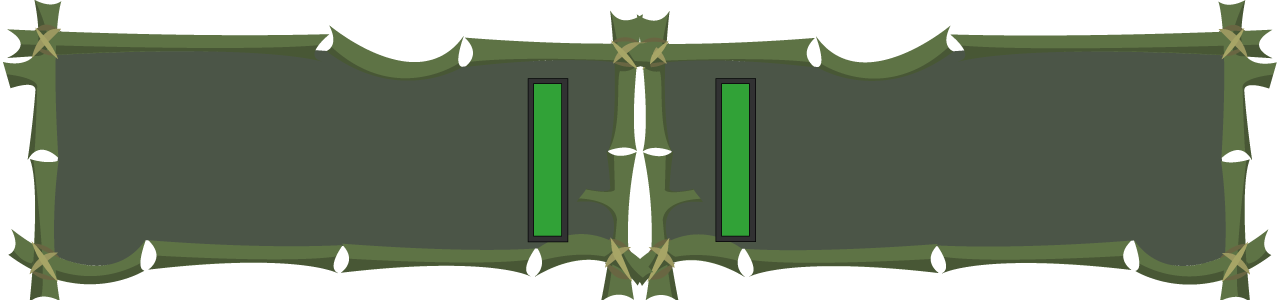
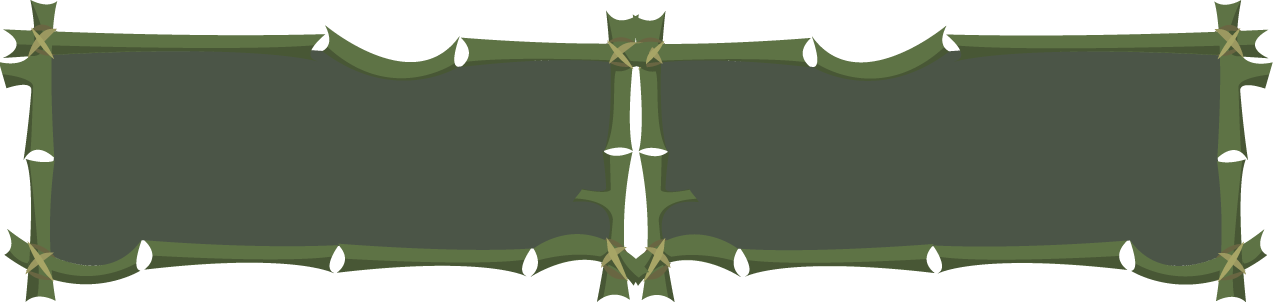
enlce

diff --git a/src/scenes/mainmenu.js b/src/scenes/mainmenu.js
@@ -24,20 +24,79 @@ export class MainMenu extends Phaser.Scene {
       this.cameras.main.centerY / 1.5,
       "phaser_logo"
     );*/
-    this.add.image(this.cameras.main.centerX, this.cameras.main.centerY, "mainMenu")
-    .setScale(1);
+    let backMenu = this.add.image(this.cameras.main.centerX, this.cameras.main.centerY, "mainMenu")
+    .setScale(.67);
 
     // Boton para comenzar a jugar
-        const botonJgar = new Button(this.cameras.main.centerX + 100, this.cameras.main.centerY- 160, 'Comenzar', this, () => {
+    let botonJgar = this.add.image(750, 195, 'botonM')
+    .setScale(.67);
+        let botonJgarM = this.add.text(656, 152, 'JUGAR')
+        .setStyle({
+            fontFamily: "asian",
+            fontSize: '100px',
+            fill: '#7D8E69'
+        })
+        .setInteractive()
+        .on(Phaser.Input.Events.GAMEOBJECT_POINTER_DOWN,() => {
+          this.scene.start("SelecFacc")
+        })
+        .on('pointerover', () => botonJgarM.setStyle({ fill: '#323D26' }))
+        .on('pointerout', () => botonJgarM.setStyle({ fill: '#7D8E69' }));
+
+
+        //boton Ayuda
+        let botonAyda = this.add.image(756, 348, 'botonM')
+    .setScale(.54);
+        let botonAydaM = this.add.text(680, 315, 'AYUDA')
+        .setStyle({
+            fontFamily: "asian",
+            fontSize: '80px',
+            fill: '#7D8E69'
+        })
+        .setInteractive()
+        .on(Phaser.Input.Events.GAMEOBJECT_POINTER_DOWN,() => {
+          this.scene.start("Ayuda")
+        })
+        .on('pointerover', () => botonAydaM.setStyle({ fill: '#323D26' }))
+        .on('pointerout', () => botonAydaM.setStyle({ fill: '#7D8E69' }));
+        
+        
+        //boton Creditos
+        let botonCre = this.add.image(760, 478, 'botonM')
+    .setScale(.43);
+        let botonCreM = this.add.text(676, 452, 'CREDITOS')
+        .setStyle({
+            fontFamily: "asian",
+            fontSize: '68px',
+            fill: '#7D8E69'
+        })
+        .setInteractive()
+        .on(Phaser.Input.Events.GAMEOBJECT_POINTER_DOWN,() => {
+          this.scene.start("Creditos")
+        })
+        .on('pointerover', () => botonCreM.setStyle({ fill: '#323D26' }))
+        .on('pointerout', () => botonCreM.setStyle({ fill: '#7D8E69' }));
+        
+        //Configuracion
+        let opciones = this.add.image(1230, 50,'confiM')
+        .setScale(.55)
+        .setInteractive()
+        .on(Phaser.Input.Events.GAMEOBJECT_POINTER_DOWN,() => {
+          opciones.setTint(0x728C55)
+          this.scene.start("Opciones");
+        })
+        .on('pointerover', () => opciones.setTint(0x728C55))
+        .on('pointerout', () => opciones.setTint(0xDBE5D0));
+        /*const botonJgar = new Button(this.cameras.main.centerX + 100, this.cameras.main.centerY- 160, 'JUGAR', this, () => {
             // Instrucción para pasar a la escena Play
             this.scene.start("SelecPer");
         });
 
         // Boton para comenzar a jugar
-        const botonCred = new Button(this.cameras.main.centerX + 100, this.cameras.main.centerY -70, 'Creditos', this, () => {
+        const botonCred = new Button(this.cameras.main.centerX + 100, this.cameras.main.centerY -70, 'AYUDA', this, () => {
           // Instrucción para pasar a la escena Play
-          this.scene.start("Credits");
-      });
+          this.scene.start("Ayuda");
+      });*/
 
       /*// Boton para comenzar a jugar
       const botonSlir = new Button(this.cameras.main.centerX, this.cameras.main.centerY + this.cameras.main.centerY/3, 'Salir', this, () => {
@@ -45,11 +104,11 @@ export class MainMenu extends Phaser.Scene {
         this.scene.start("");
     });*/
 
-    // Boton para comenzar a jugar
-    const boton = new Button(this.cameras.main.centerX + 100, this.cameras.main.centerY+20, 'Opciones', this, () => {
+    /*/ Boton para comenzar a jugar
+    const boton = new Button(this.cameras.main.centerX + 100, this.cameras.main.centerY+20, 'CREDITOS', this, () => {
       // Instrucción para pasar a la escena Play
-      this.scene.start("Opciones");
-  });
+      this.scene.start("Creditos");
+  });*/
   }
   update(){
     

diff --git a/src/scenes/selecFaccion.js b/src/scenes/selecFaccion.js
@@ -1,0 +1,95 @@
+
+export class SelecFacc extends Phaser.Scene {
+    constructor() {
+      // Se asigna una key para despues poder llamar a la escena
+      super("SelecFacc");
+    }
+  
+    
+    /*preload() {
+      this.load.image("phaser_logo", "public/assets/images/phaser_logo.png");
+      this.load.image(
+        "mainmenu_bg",
+        "public/assets/images/main_menu_background.png"
+      );
+    }*/
+    
+    create() {
+
+
+      this.add.image(this.cameras.main.centerX, this.cameras.main.centerY, "elegirFacc");
+
+      let volverM = this.add.image(70, 60, 'volverM')
+        .setScale(.7)
+        .setInteractive()
+        .on(Phaser.Input.Events.GAMEOBJECT_POINTER_DOWN,() => {
+          this.scene.start("MainMenu")
+        })
+        .on('pointerover', () => volverM.setTint(0x728C55))
+        .on('pointerout', () => volverM.setTint(0xDBE5D0));
+
+
+        //listo j1 y j2
+        let listoJ1 = this.add.image(370, 660, 'boton')
+        .setScale(.16)
+        .setInteractive()
+        .on(Phaser.Input.Events.GAMEOBJECT_POINTER_DOWN,() => {
+        })
+        .on('pointerover', () => listoJ1.setTint(0x728C55))
+        .on('pointerout', () => listoJ1.setTint(0xDBE5D0));;;
+        
+        let listoJ01 = this.add.text(330, 638, 'LISTO')
+        .setStyle({
+            fontFamily: "asian",
+            fontSize: '56px',
+            fill: '#7D8E69'
+        })
+        .setInteractive()
+        .on(Phaser.Input.Events.GAMEOBJECT_POINTER_DOWN,() => {
+          this.listo1 = true;
+        })
+        .on('pointerover', () => listoJ01.setTint(0x728C55))
+        .on('pointerout', () => listoJ01.setTint(0xDBE5D0))
+        let listo1 = false;
+
+
+        let listoJ2 = this.add.image(980, 660, 'boton')
+        .setScale(.16)
+        .setInteractive()
+        .on(Phaser.Input.Events.GAMEOBJECT_POINTER_DOWN,() => {
+        })
+        .on('pointerover', () => listoJ2.setTint(0x728C55))
+        .on('pointerout', () => listoJ2.setTint(0xDBE5D0));;
+        let listoJ02 = this.add.text(944, 638, 'LISTO')
+        .setStyle({
+            fontFamily: "asian",
+            fontSize: '56px',
+            fill: '#7D8E69'
+        })
+        .setInteractive()
+        .on(Phaser.Input.Events.GAMEOBJECT_POINTER_DOWN,() => {
+          this.listo2 = true;
+        })
+        .on('pointerover', () => listoJ02.setTint(0x728C55))
+        .on('pointerout', () => listoJ02.setTint(0xDBE5D0))
+        let listo2 = false;
+
+        
+
+
+       //Boton para comenzar a jugar al combate
+      /*const botonPlayC = new Button(this.cameras.main.centerX, this.cameras.main.centerY + this.cameras.main.centerY/2, 'Empezar', this, () => {
+        // Instrucción para pasar a la escena PlayCombat
+        this.scene.start("selecSamurai");
+        
+    });*/
+  }
+
+  update(){
+    
+    
+    if (this.listo1 && this.listo2 === true){
+      this.scene.start("SelecPer")
+    }
+  }
+}

diff --git a/src/scenes/preloads.js b/src/scenes/preloads.js
@@ -15,14 +15,18 @@ export class Preloads extends Phaser.Scene {
       "mainmenu_bg",
       "public/assets/images/main_menu_background.png"
     );
-    this.load.image("mainMenu", "public/assets/images/menu.png");
-    this.load.image("credits", "public/assets/images/creditos.png");
-    this.load.image("selecPersonajes", "public/assets/images/seleccion_personajes.png");
+    this.load.image("mainMenu", "public/assets/images/menu1.png");
+    this.load.image("creditos", "public/assets/images/creditos.png");
+    this.load.image("selecPersonajes", "public/assets/images/selecPer.png");
     this.load.image("opciones", "public/assets/images/opciones.png");
     this.load.image("samuraisSelec", "public/assets/images/seleccion_luchadores.png");
     this.load.image("vikingSelec", "public/assets/images/seleccion-vikinga.png");
     this.load.image("combatZoomOut", "public/assets/images/comZoomOut.png");  
     this.load.image("combatZoom", "public/assets/images/combatZoom.png");
+
+    this.load.image("ayuda01", "public/assets/images/ayuda01.png")
+
+    this.load.image("elegirFacc", "public/assets/images/elegirFacc.png")
 
     //personajes
     this.load.image("sCaballo", "public/assets/images/personajes/caballo.png");
@@ -34,7 +38,12 @@ export class Preloads extends Phaser.Scene {
     this.load.image("interface", "public/assets/images/escenario_central.png");
 
     //botones
-    //this.load.image("botonV", "public/assets/images/bottonV.png")
+    this.load.image("boton", "public/assets/images/bottonV.png")
+    this.load.image('botonM', "public/assets/images/botonTrans.png")
+    this.load.image('confiM', "public/assets/images/opcionesM.png")
+    this.load.image('volverM', "public/assets/images/volverM.png")
+    this.load.image("botonV", "public/assets/images/interfaz.png");
+
 
     //amnimaciones
     this.load.spritesheet('peon', "public/assets/images/peon.png", {
@@ -42,10 +51,17 @@ export class Preloads extends Phaser.Scene {
       frameHeight: 1080,
     });
 
+    //PERSONAJE SAMURAIS
+    this.load.image("sPerS01", "public/assets/images/selecPerS01.png")
+    this.load.image("zoomPerS01", "public/assets/images/zoomPerS01.png")
+    //PERSONAJE VIKINGOS
+    this.load.image("sPerV02", "public/assets/images/selecPerV02.png")
+    
+
   }
 
   create() {
     // Pasa directamente a la escena del menú principal
-    this.scene.start("PlayZoom");
+    this.scene.start("MainMenu");
   }
 }

diff --git a/src/scenes/SelecPer.js b/src/scenes/SelecPer.js
@@ -17,12 +17,40 @@ export class SelecPer extends Phaser.Scene {
     create() {
 
 
-      this.add.image(this.cameras.main.centerX, this.cameras.main.centerY, "selecPersonajes")
-      .setScale(1);
-       //Boton para comenzar a jugar al combate
+      const image1 = this.add.image(this.cameras.main.centerX, this.cameras.main.centerY, "selecPersonajes")
+      
+      //Boton para comenzar a jugar al combate
       const botonPlayC = new Button(this.cameras.main.centerX, this.cameras.main.centerY + this.cameras.main.centerY/2, 'Empezar', this, () => {
         // Instrucción para pasar a la escena PlayCombat
-        this.scene.start("selecSamurai");
+        this.scene.start("PlayZoom");
     });
+   
+   //camaras para la seleccion 
+   const cam2 = this.cameras.add(400, 0, 400, 300).setBackgroundColor(0xFFFFFF);
+   cam2.ignore([ image1])
+   const peon = this.add.image(500, 300, 'zoomPerS01')
+
+   //lista de seleccion samurais
+   let perS01 = this.add.image(548, 542, 'sPerS01')
+   .setInteractive()
+    .on(Phaser.Input.Events.GAMEOBJECT_POINTER_DOWN,() => {
+        })
+    .on('pointerover', () => perS01.setTint(0x7353EC))
+    .on('pointerout', () => perS01.setTint(0xFFFFFF))
+
+
+
+    //lista de seleccion vikinga
+    let perV02 = this.add.image(840, 536, 'sPerV02')
+   .setScale(.63)
+   .setInteractive()
+    .on(Phaser.Input.Events.GAMEOBJECT_POINTER_DOWN,() => {
+
+        })
+    .on('pointerover', () => perV02.setTint(0x7353EC))
+    .on('pointerout', () => perV02.setTint(0xFFFFFF))
+
   }
+
+  update(){}
 }

diff --git a/src/scenes/PlayZoom.js b/src/scenes/PlayZoom.js
@@ -5,10 +5,12 @@ export class PlayZoom extends Phaser.Scene {
     }
 
     preload(){
-        this.load.image("botonV", "public/assets/images/interfaz.png");
         //this.load.image('B', "public/assets/images/boton2.png");
         this.load.image('b2', "public/assets/images/boton2.png");
         this.load.image('B', "public/assets/images/bBack.png");
+        //vida
+        this.load.image("vida", "public/assets/images/vida.png")
+        this.load.image("vidaBack", "public/assets/images/vidaBack.png")
 
     }
     create(){
@@ -115,7 +117,7 @@ export class PlayZoom extends Phaser.Scene {
             backBotonAt3.visible = false;
             backBoton1.visible = true;
             backBoton2.visible = false;
-            peonS.play({key: 'peonAt', repeat: 0})
+            peonS.play({key: 'peonAt', repeat: 0});
 
         })
         .on('pointerover', () => ataque1.setStyle({ fill: '#323D26' }))
@@ -251,8 +253,15 @@ export class PlayZoom extends Phaser.Scene {
             });
         }
      }*/
-        
 
+
+
+
+     //vida
+     let vidaBj1 = this.add.image(555, 572, 'vidaBack')
+     let vidaj1 = this.add.image(555, 572, 'vida')
+        
+     //Animaciones
      const peonAnim = this.anims.create({
         key: "peonAt",
         frames: this.anims.generateFrameNumbers('peon', {start: 0, end: 5}),

diff --git a/src/js/index.js b/src/js/index.js
@@ -1,13 +1,15 @@
 import { Preloads } from "../scenes/preloads.js";
 import { MainMenu } from "../scenes/mainmenu.js";
 import {SelecPer} from "../scenes/SelecPer.js"
-import {Credits} from "../scenes/Credits.js"
+import {Creditos} from "../scenes/Credits.js"
 import {PlayCombat} from "../scenes/PlayCombat.js"
 import {Resultados} from "../scenes/Resultados.js"
 import {Opciones} from "../scenes/opciones.js"
 import {selecSamurai} from "../scenes/samuraiSel.js"
 import {selecViking} from "../scenes/vikingSel.js"
 import {PlayZoom} from "../scenes/PlayZoom.js"
+import {Ayuda} from "../scenes/ayuda.js"
+import {SelecFacc} from "../scenes/selecFaccion.js"
 
 
 var config = {
@@ -35,7 +37,7 @@ var config = {
   },
   // Listado de todas las escenas del juego, en orden
   // La primera escena es con la cual empieza el juego
-  scene: [Preloads, MainMenu, SelecPer, Credits, Opciones, selecSamurai, selecViking, PlayCombat, PlayZoom, Resultados]
+  scene: [Preloads, MainMenu, SelecPer, Creditos, Opciones, Ayuda, SelecFacc, selecSamurai, selecViking, PlayCombat, PlayZoom, Resultados]
 };
 
 var game = new Phaser.Game(config);

diff --git a/src/scenes/ayuda.js b/src/scenes/ayuda.js
@@ -1,12 +1,12 @@
-import Button from "../js/button.js";
-export class Creditos extends Phaser.Scene {
+
+export class Ayuda extends Phaser.Scene {
     constructor() {
       // Se asigna una key para despues poder llamar a la escena
-      super("Creditos");
+      super("Ayuda");
     }
   
     preload() {
-      this.add.image(this.cameras.main.centerX, this.cameras.main.centerY, "creditos")
+      this.add.image(this.cameras.main.centerX, this.cameras.main.centerY, "ayuda01")
     .setScale(1);
     }
   
@@ -15,6 +15,7 @@ export class Creditos extends Phaser.Scene {
       //this.scene.start("MainMenu");
 
       //volver al menu
+
         
       let volverM = this.add.image(70, 60, 'volverM')
         .setScale(.64)
